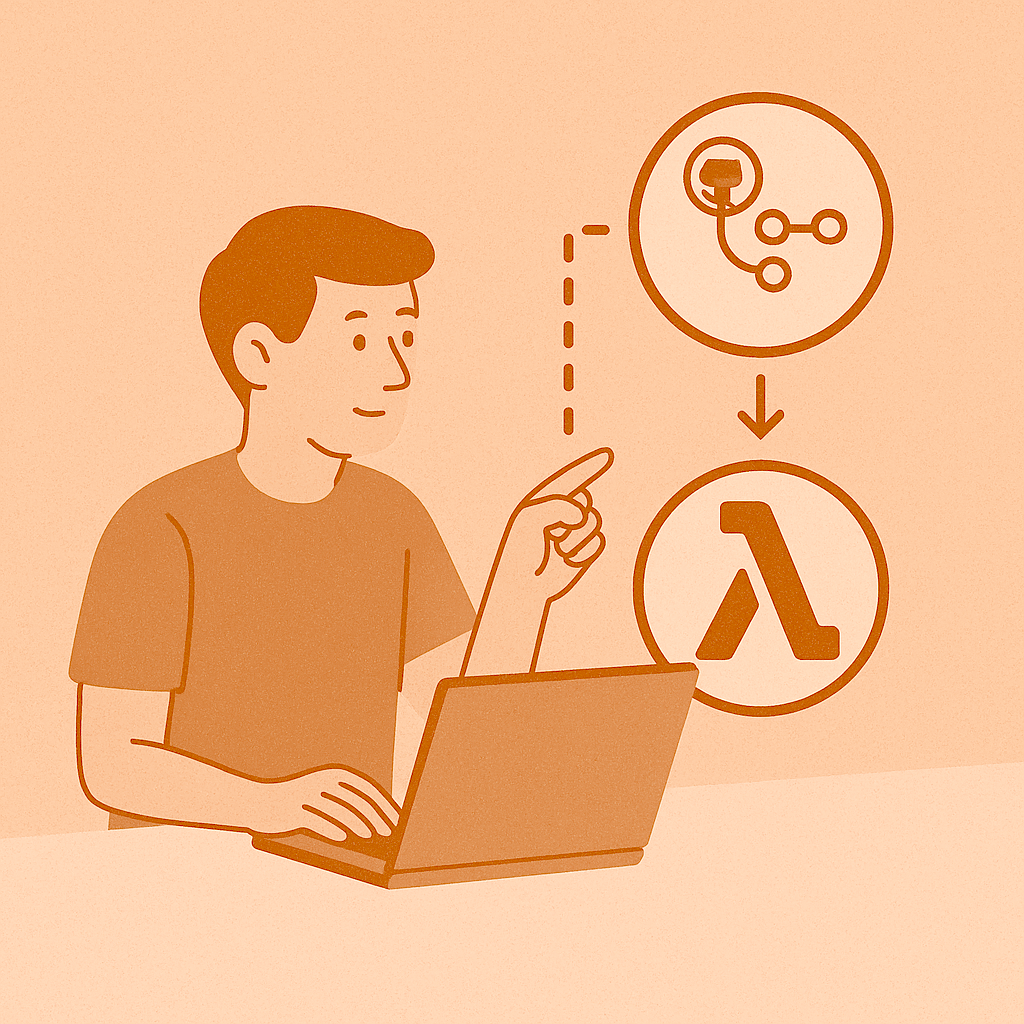
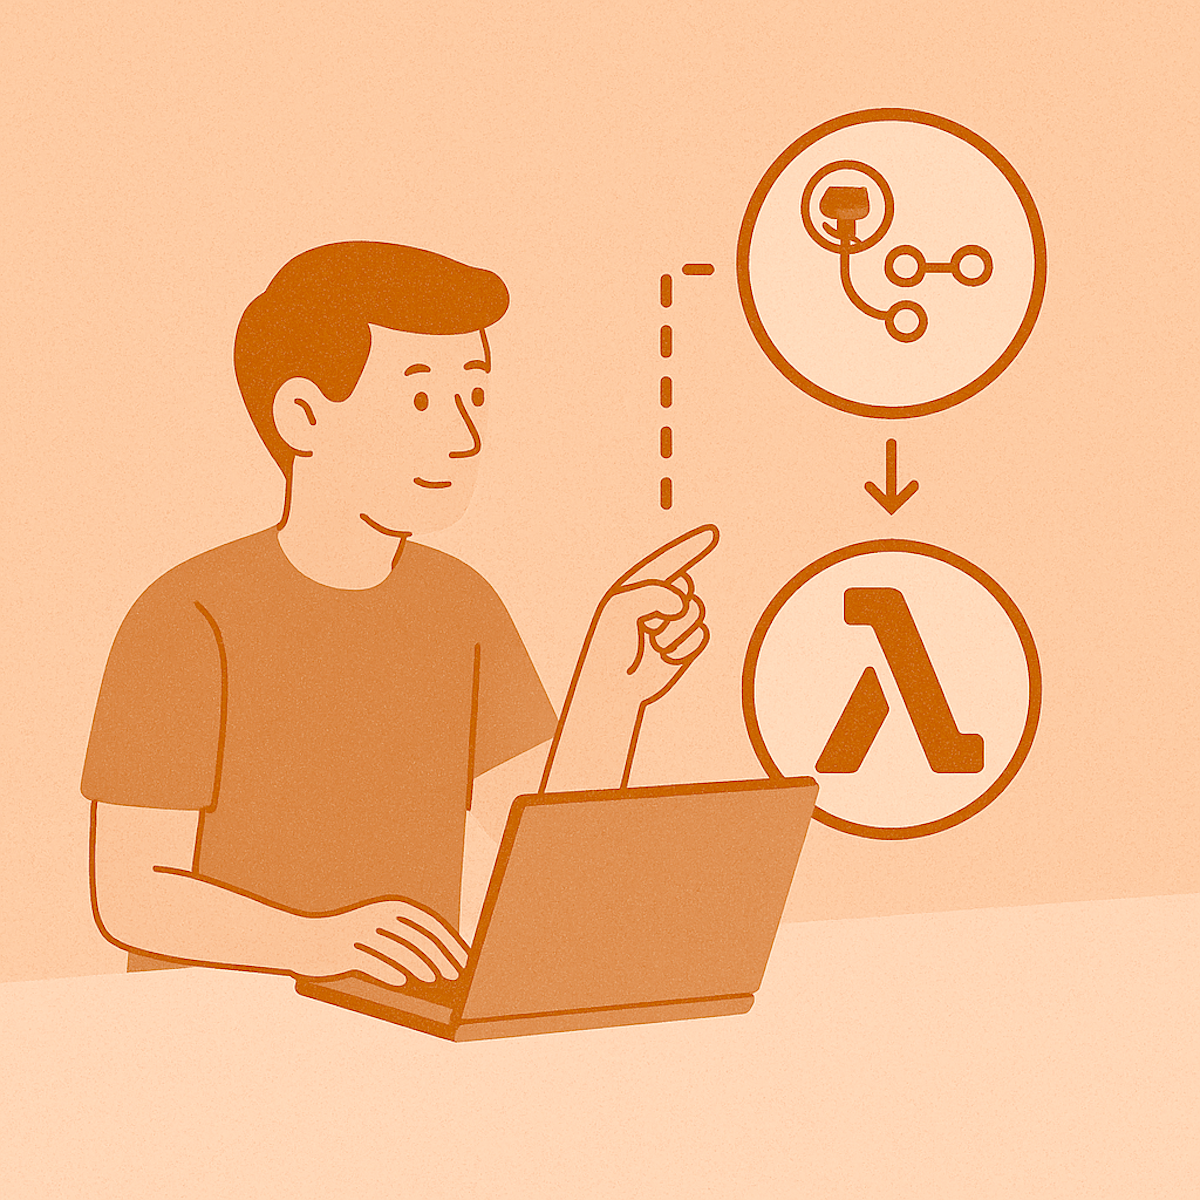
refactor: original img

diff --git a/app/blog/_config/data.tsx b/app/blog/_config/data.tsx
@@ -1,8 +1,12 @@
 import { BlogEntry } from "../_interfaces/blog";
-import buildHomeServer from "@/../public/blog/covers/building_home_server_sm.png";
-import lambdaDeploy from "@/../public/blog/covers/lambda_deploy_sm.png";
-import tektonCicd from "@/../public/blog/covers/tekton_cicd_sm.png";
-import techConference from "@/../public/blog/covers/tech_conference_sm.png";
+import buildHomeServerSm from "@/../public/blog/covers/building_home_server_sm.png";
+import lambdaDeploySm from "@/../public/blog/covers/lambda_deploy_sm.png";
+import tektonCicdSm from "@/../public/blog/covers/tekton_cicd_sm.png";
+import techConferenceSm from "@/../public/blog/covers/tech_conference_sm.png";
+import buildHomeServer from "@/../public/blog/covers/building_home_server.png";
+import lambdaDeploy from "@/../public/blog/covers/lambda_deploy.png";
+import tektonCicd from "@/../public/blog/covers/tekton_cicd.png";
+import techConference from "@/../public/blog/covers/tech_conference.png";
 
 const BLOG_ENTRIES: BlogEntry[] = [
   {
@@ -12,7 +16,11 @@ const BLOG_ENTRIES: BlogEntry[] = [
     date: "2025-10-03",
     tags: ["linux", "ubuntu", "smb", "samba"],
     content: "building-my-home-server-p2",
-    cover: { image: buildHomeServer, alt: "build_home_server" },
+    cover: {
+      image: buildHomeServerSm,
+      original: buildHomeServer,
+      alt: "build_home_server",
+    },
   },
   {
     id: 4,
@@ -21,7 +29,11 @@ const BLOG_ENTRIES: BlogEntry[] = [
     date: "2025-10-03",
     tags: ["linux", "ubuntu", "ssh", "wifi", "netplan", "security", "ufw"],
     content: "building-my-home-server-p1",
-    cover: { image: buildHomeServer, alt: "build_home_server" },
+    cover: {
+      image: buildHomeServerSm,
+      original: buildHomeServer,
+      alt: "build_home_server",
+    },
   },
   {
     id: 3,
@@ -31,7 +43,11 @@ const BLOG_ENTRIES: BlogEntry[] = [
     date: "2025-06-07",
     tags: ["aws", "lambda", "cicd", "github-actions"],
     content: "lambda-deployments",
-    cover: { image: lambdaDeploy, alt: "lambda_deploy" },
+    cover: {
+      image: lambdaDeploySm,
+      original: lambdaDeploy,
+      alt: "lambda_deploy",
+    },
   },
   {
     id: 2,
@@ -40,7 +56,11 @@ const BLOG_ENTRIES: BlogEntry[] = [
     date: "2024-03-22",
     tags: ["ibm", "red-hat", "openshift", "ansible", "security", "watsonx"],
     content: "ibm-tech-2024-conference",
-    cover: { image: techConference, alt: "tech_conference" },
+    cover: {
+      image: techConferenceSm,
+      original: techConference,
+      alt: "tech_conference",
+    },
   },
   {
     id: 1,
@@ -57,7 +77,7 @@ const BLOG_ENTRIES: BlogEntry[] = [
       "docker",
     ],
     content: "migrating-to-tekton",
-    cover: { image: tektonCicd, alt: "tekton_cicd" },
+    cover: { image: tektonCicdSm, original: tektonCicd, alt: "tekton_cicd" },
   },
 ];
 

diff --git a/app/blog/[id]/page.tsx b/app/blog/[id]/page.tsx
@@ -11,7 +11,7 @@ export async function generateMetadata({ params }: IPost): Promise<Metadata> {
   const id = (await params).id;
   const post = blogEntries.find((entry) => entry.id.toString() === id);
   const { title, description, cover } = post || {};
-  const coverImageUrl = cover?.image.src || "";
+  const coverImageUrl = cover?.original.src || "";
 
   return {
     metadataBase: new URL(`https://arcade-lab.io/`),

diff --git a/app/blog/_interfaces/blog.d.ts b/app/blog/_interfaces/blog.d.ts
@@ -7,5 +7,5 @@ export interface BlogEntry {
   date: string;
   content: string;
   tags: string[];
-  cover: { image: StaticImageData; alt: string };
+  cover: { image: StaticImageData; original: StaticImageData; alt: string };
 }
